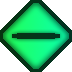
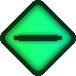
animate buttons, redesign slides and fix dangeons

diff --git a/EyesightUpGame.v.3.py b/EyesightUpGame.v.3.py
@@ -6,7 +6,7 @@ from PIL import Image, ImageDraw, ImageFont
 import csv
 from os import remove, listdir
 from contextlib import suppress
-from win32api import GetSystemMetrics as size_
+from win32api import GetSystemMetrics
 from img.explosions import *
 from webbrowser import open as open_site
 
@@ -112,7 +112,8 @@ class SplitAnimatedFigure(AnimatedFigure):
 
 
 class Button(pygame.sprite.Sprite):
-    def __init__(self, shablon_image, pos, bttext, btname, alpha, func, sizefont=54, x=30, tr=1, sz=30, animate_ind=0, animation_delay=0):
+    def __init__(self, shablon_image, pos, bttext, btname, alpha, func, sizefont=54, x=30, tr=1, sz=30, animate_ind=0,
+                 animation_delay=0):
         self.animate_ind = animate_ind
         self.animation_delay = animation_delay
         a = 'img/Style/buttons/'
@@ -121,7 +122,7 @@ class Button(pygame.sprite.Sprite):
         draw_text(image0, bttext, sizefont, image, x, sz)
         pygame.sprite.Sprite.__init__(self)
         d = pygame.image.load(image).convert_alpha()
-        self.current_animation_step = 0
+        self.current_animation_step = 1
         self.route = 1
         self.route_animate = 1
         self.animation_time = 1 * 6
@@ -139,16 +140,14 @@ class Button(pygame.sprite.Sprite):
         self.rect.y = pos[1]
         self.was_targeted = 0
         self.tr = tr
+        self.target_step = 0
+        self.stroke_delay = 0
 
     def target(self, i=2):
         self.image.set_alpha(self.alpha + (255 - self.alpha) // 3 * (3 - i))
         if i == 2 and not self.was_targeted:
-            self.rect.x += 4
-            self.rect.y += 4
             self.was_targeted = 1
         elif i == 0 and self.was_targeted:
-            self.rect.x -= 4
-            self.rect.y -= 4
             self.was_targeted = 0
 
     def clicked(self):
@@ -159,17 +158,34 @@ class Button(pygame.sprite.Sprite):
         if self.animation_delay:
             if self.animate_ind == 0:
                 self.current_animation_time += 1
-                if self.current_animation_time == self.animation_time:
+                if self.current_animation_time >= self.animation_time / animation_steps[self.current_animation_step]:
                     if self.current_animation_step == steps_count - 1:
                         self.route = -1
-                    elif self.current_animation_step == 0:
+                    elif self.current_animation_step == 1:
                         self.route = 1
                         self.route_animate *= -1
-                    self.current_animation_step += self.route
-                    self.rect.y += animation_steps[self.current_animation_step] * self.route_animate
+                    self.rect.y += self.route_animate
                     self.current_animation_time = 0
+                    self.current_animation_step += self.route
             else:
                 self.animate_ind -= 1
+        self.step_targets()
+
+    def step_targets(self):
+        if self.stroke_delay:
+            self.stroke_delay = 0
+            if self.was_targeted:
+                if self.target_step < 8:
+                    self.target_step += 1
+                    self.rect.x += 1
+                    self.rect.y += 1
+            else:
+                if self.target_step > 0:
+                    self.target_step -= 1
+                    self.rect.x -= 1
+                    self.rect.y -= 1
+        else:
+            self.stroke_delay = 1
 
 
 class ButtonMusicControl(Button):
@@ -184,6 +200,10 @@ class ButtonMusicControl(Button):
         self.rect.x = pos[0]
         self.rect.y = pos[1]
         self.tr = tr
+        self.was_targeted = 0
+
+    def update(self):
+        pygame.sprite.Sprite.update(self)
 
 
 class InputBox:
@@ -232,14 +252,14 @@ class InputBox:
         pygame.draw.rect(ekran, self.color, self.rect2, 2)
 
 
-def draw_text(image, text, size, filename, x, sz):
+def draw_text(image, text, fontsize, filename, x, sz):
     """накладывает text с размером шрифта size
      на изображение кнопки и сохраняет как filename"""
     if len(text) == 1:
         w = sz
     else:
         w = 5
-    font = ImageFont.truetype("pixel_font.ttf", size, encoding="unic")
+    font = ImageFont.truetype("pixel_font.ttf", fontsize, encoding="unic")
     canvas = Image.open(image)
 
     draw = ImageDraw.Draw(canvas)
@@ -352,13 +372,13 @@ def main_menu():
     button1 = Button(d, (main_but_sizes[0], main_but_sizes[1]), ['     играть'], 'NewButton.png', alpha,
                      lambda: game(), animation_delay=1)
     button2 = Button(d, (main_but_sizes[0], main_but_sizes[1] + main_but_sizes[2]), ['    уровень'], 'NewButton.png',
-                     alpha, lambda: level_settings(), animate_ind=6, animation_delay=1)
+                     alpha, lambda: level_settings(), animate_ind=8, animation_delay=1)
     button3 = Button(d, (main_but_sizes[0], main_but_sizes[1] + main_but_sizes[2] * 2), ['   обучение'],
                      'NewButton.png',
-                     alpha, lambda: training(), animate_ind=12, animation_delay=1)
+                     alpha, lambda: training(), animate_ind=16, animation_delay=1)
     button4 = Button(d, (main_but_sizes[0], main_but_sizes[1] + main_but_sizes[2] * 3), ['  настройки'],
                      'NewButton.png',
-                     alpha, lambda: settings(), animate_ind=18, animation_delay=1)
+                     alpha, lambda: settings(), animate_ind=24, animation_delay=1)
     mainbuttons = [button1, button2, button3, button4]
     for button in mainbuttons:
         buttons_spr.add(button)
@@ -500,8 +520,8 @@ def game():
         game_sound, global_level, global_speed_koef, volume, global_timer, global_speed
     gamerun_sprites, animated_spr_list = pygame.sprite.Group(), []
     errors_col_sprs = pygame.sprite.Group()
-    difficulty, dont_rot_col, rot_col, spl_rot_col, prime_col, scale, global_timer, \
-    global_speed, global_speed_koef, w, h = global_level
+    difficulty, dont_rot_col, rot_col, spl_rot_col, prime_col, scale, global_timer, global_speed, global_speed_koef, (
+        w), h = global_level
     set_width_and_height(w, h)
     set_w_h_butt(WIDTH_D - 6, HEIGHT_U - 50)
     error_image = pygame.image.load(fg_dir + sc_im).convert_alpha()
@@ -716,19 +736,22 @@ def level_settings():
                    input_box7, input_box8, input_box9, input_box10, input_box11]
     button = Button('BSe.png', (main_but_sizes[0], main_but_sizes[1] + main_but_sizes[2] * 3),
                     ['сохранить'], 'NewButton.png', 161,
-                    lambda: set_player_level(input_boxes), sz=17, sizefont=44)
+                    lambda: set_player_level(input_boxes), sz=17, sizefont=44, animate_ind=0, animation_delay=1)
     button1 = Button('BSe.png', (20, main_but_sizes[7]), ['   3 из 10'], 'NewButton.png', 161,
-                     lambda: set_level(easy_level, input_boxes), sz=17, sizefont=44)
+                     lambda: set_level(easy_level, input_boxes), sz=17, sizefont=44, animate_ind=8, animation_delay=1)
     button2 = Button('BSe.png', (20 + 300, main_but_sizes[7]), ['   5 из 10'], 'NewButton.png', 161,
-                     lambda: set_level(normal_level, input_boxes), sz=17, sizefont=44)
+                     lambda: set_level(normal_level, input_boxes), sz=17, sizefont=44, animate_ind=16,
+                     animation_delay=1)
     button3 = Button('BSe.png', (20 + 300 * 2, main_but_sizes[7]), ['   7 из 10'], 'NewButton.png', 161,
-                     lambda: set_level(medium_level, input_boxes), sz=17, sizefont=44)
+                     lambda: set_level(medium_level, input_boxes), sz=17, sizefont=44, animate_ind=24,
+                     animation_delay=1)
     button4 = Button('BSe.png', (20 + 300 * 3, main_but_sizes[7]), ['   9 из 10'], 'NewButton.png', 161,
-                     lambda: set_level(hard_level, input_boxes), sz=17, sizefont=44)
+                     lambda: set_level(hard_level, input_boxes), sz=17, sizefont=44, animate_ind=32, animation_delay=1)
     button5 = Button('BSe.png', (20 + 300 * 4, main_but_sizes[7]), ['   11 из 10'], 'NewButton.png', 161,
-                     lambda: set_level(demon_level, input_boxes), sz=17, sizefont=44)
+                     lambda: set_level(demon_level, input_boxes), sz=17, sizefont=44, animate_ind=40, animation_delay=1)
     button6 = Button('BSe.png', (20 + 300 * 4, main_but_sizes[6] * 6 + main_but_sizes[9] + 5), ['     свой'],
-                     'NewButton.png', 161, lambda: set_level(player_level, input_boxes), sz=17, sizefont=44)
+                     'NewButton.png', 161, lambda: set_level(player_level, input_boxes), sz=17, sizefont=44,
+                     animate_ind=48, animation_delay=1)
     buttons_spr = pygame.sprite.Group()
     setting_buttons = [button, button1, button2, button3, button4, button5, button6]
     for button in setting_buttons:
@@ -834,9 +857,9 @@ def settings():
     buttons_spr = pygame.sprite.Group()
     button1 = Button(d, (main_but_sizes[0], main_but_sizes[1]), ['      стиль'], 'BT_TEST.png',
                      alpha, lambda: import_style())
-    button3 = ButtonMusicControl((main_but_sizes[5], main_but_sizes[6] * 3),
+    button3 = ButtonMusicControl((main_but_sizes[5], main_but_sizes[6] * 3 - 2),
                                  'img/Style/MusicControl/music_control_minus.png', alpha, lambda: minus_volume())
-    button4 = ButtonMusicControl((main_but_sizes[4], main_but_sizes[6] * 3),
+    button4 = ButtonMusicControl((main_but_sizes[4], main_but_sizes[6] * 3 - 2),
                                  'img/Style/MusicControl/music_control_plus.png', alpha, lambda: plus_volume())
     button2 = pygame.sprite.Sprite()
     draw_text('img/Style/buttons/BS.png', ['      звук'], 54, 'img/Style/buttons/NewButton.png', 30, 30)
@@ -952,7 +975,7 @@ sounds = (click_sound, start_sound, win_sound, lose_sound, false_sound, true_sou
 decorations = pygame.sprite.Group()
 set_volume()
 FONT = pygame.font.Font('pixel_font.ttf', 32)
-size = [size_(0), size_(1)]
+size = [GetSystemMetrics(0), GetSystemMetrics(1)]
 coefficients = (1536 / size[0], 864 / size[1])
 main_but_sizes = [ret_size_x(570), ret_size_y(132), ret_size_y(140), ret_size_y(272), ret_size_y(1010),
                   ret_size_y(460), ret_size_y(100), ret_size_y(760), ret_size_y(24), ret_size_y(45)]
@@ -1000,12 +1023,12 @@ main_run = True
 animation_steps = (0, 1, 1, 1, 2, 3, 4)
 steps_count = len(animation_steps)
 
-for i in range(255, 0, -3):
+"""for i in range(255, 0, -3):
     backanimated = back1.copy()
     backanimated.fill((i, i, i), special_flags=pygame.BLEND_RGB_ADD)
     screen.fill(BLACK)
     screen.blit(backanimated, back_rect)
-    pygame.display.flip()
+    pygame.display.flip()"""
 while main_run:
     with suppress(Exception):
         main_menu()

diff --git a/level_to_first_version.py b/level_to_first_version.py
@@ -1,0 +1,6 @@
+import csv
+
+with open('level.csv', 'w', newline='', encoding='utf8') as csvfile:
+    writer = csv.writer(
+        csvfile, delimiter=';', quotechar='"', quoting=csv.QUOTE_MINIMAL)
+    writer.writerows([(1, 3, 3, 0, 2, 1, 10, 2, 2, 480, 600), (1, 3, 3, 0, 2, 1, 10, 2, 2, 480, 600, 0.5, 2, 2)])

diff --git a/test.py b/test.py
@@ -1,0 +1,1 @@
+import yesightpame.c
